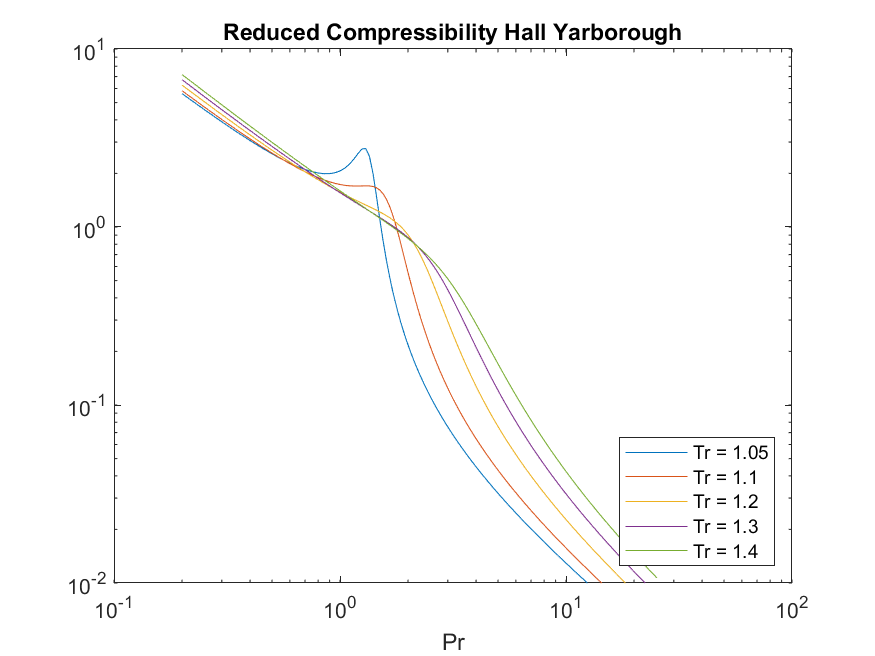
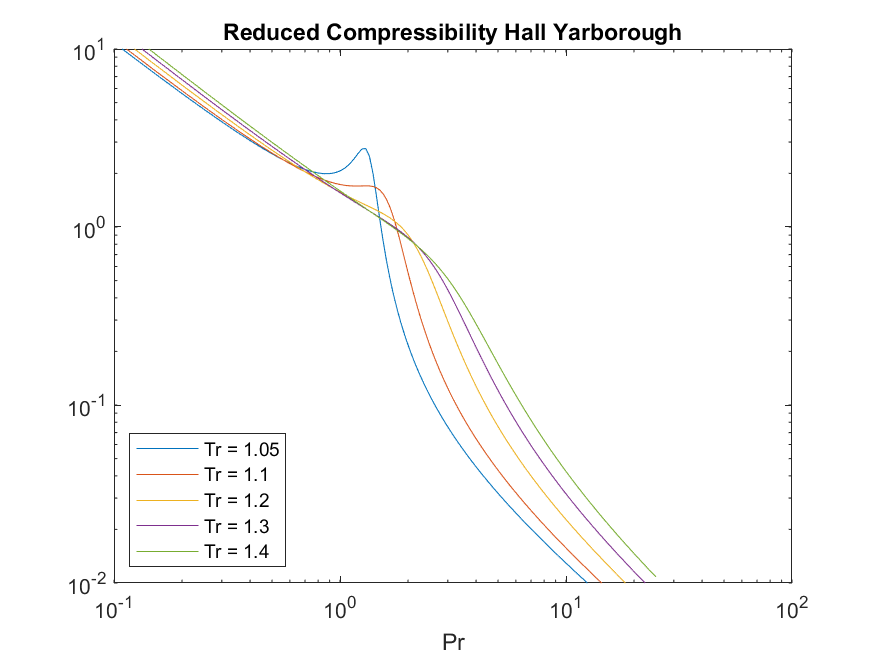
updated

diff --git a/docs/source/untitled2.m b/docs/source/untitled2.m
@@ -1,60 +1,47 @@
+% define zfunction
+function crtrhy =  CrTrHY(Pr, Tr)
 
-% define the solution in time space
-function wt = EdgeClosedBoundaryRadial_Wd(tD, rD)
+    % define density equation
+    function yres = yfunc(y, A, B, C, D, Pr)
+         y2 = y * y; y3 = y2 * y; y4 = y3 * y; Den = (1 - y)^3;
+         yres = -A * Pr + (y + y2 + y3 - y4) / Den - B * y2 + C * y^D;
+    end
 
-   % define the solution in laplace space
-   function ws = lapW(s)
-      sqrts = sqrt(s); sqrts3 = s * sqrts; rDsqrts = rD * sqrts;
-      Num = besseli(1, rDsqrts) * besselk(1, sqrts) - besselk(1, rDsqrts) * besseli(1, sqrts);
-      Den = besseli(1, rDsqrts) * besselk(0, sqrts) + besselk(1, rDsqrts) * besseli(0, sqrts);
-      if (isinf(Num) || isinf(Den))
-         ws = 1 / sqrts3;
-      else
-         ws = Num / (sqrts3 * Den);
-      end
-   end
+    % avoid computing intermediate variables.
+    t = 1 / Tr; t2 = t * t; t3 = t2 * t;
+    tm1 = 1 - t; tm1e2 = tm1 * tm1;
+    A = 0.06125 * t * exp(-1.2 * tm1e2);
+    B = 14.76 * t - 9.76 * t2 + 4.58 * t3;
+    C = 90.7 * t - 242.2 * t2 + 42.4 * t3;
+    D = 2.18 + 2.82 * t; r = A * Pr;
+    if(Pr > 15)
+        r = r/2;
+    end
 
-   if(tD == 0 || rD == 1)
-      wt =  0;
-   else
-      wt = niLaplace(@(s)lapW(s), tD);
-   end
+    % solve the density equation
+    y = fsolve(@(y) yfunc(y, A, B, C, D, Pr), r);
+
+    % compute crtr
+    y2 = y * y; y3 = y2 * y; y4 = y3 * y; ym1p4 = (1 - y)^4; yDm1 = y^(D - 1);
+    Den = (1 + 4 * y + 4 * y2 - 4 * y3 + y4) / ym1p4 - 2 * B * y + C * D * yDm1;
+   crtrhy = A*Tr/(y*Den);
+
 end
 
-% define the time and radial mesh
-Rd = [2, 2.5, 3, 3.5, 4, 50];
-Td = logspace(-1, 2);
+% set up ressure and temperature mesh
+Pr = linspace(0, 25, 501);
+Tr = [1.05,  1.1,  1.2,  1.3,  1.4];
 
-% compute the water influx and plot
-figure(Color='w');
-lgd = {};
-for rD = Rd
-   Wd = arrayfun(@(tD)EdgeClosedBoundaryRadial_Wd(tD, rD), Td);
-   semilogx(Td, Wd, linewidth = 2);  hold on;
-   lgd = [lgd, "rD = " + num2str(rD)];
+% compute z factors and plot them
+figure(Color = 'w'); Tlabels = {};
+for tr = Tr
+    loglog(Pr, arrayfun(@(pr) CrTrHY(pr, tr), Pr)); hold on;
+    Tlabels = [Tlabels, "Tr = " + tr];
 end
-lgd(end) = 'rD = ∞'; grid on;
-xlabel("tD"); ylabel("WD");
-legend(lgd, location = "northwest")
-axis([0.1, 100, 1, 8]);
-title("Dimensionless Water Influx");
-saveas(gcf, "Dimensionless-Water-Influx-Matlab-4dn.png");
 
-
-% define the time and radial mesh
-Rd = [5,6,7,8,9,10, 50];
-Td = logspace(0, 3);
-
-% compute the water influx and plot
-figure(Color='w'); lgd = {};
-for rD = Rd
-   Wd = arrayfun(@(tD)EdgeClosedBoundaryRadial_Wd(tD, rD), Td);
-   semilogx(Td, Wd, linewidth = 2); hold on;
-   lgd = [lgd, "rD = " + num2str(rD)];
-end
-lgd(end) = 'rD = ∞'; grid on;
-xlabel("tD"); ylabel("WD");
-legend(lgd, location = "northwest")
-axis([1,1000,0, 70]);
-title("Dimensionless Water Influx");
-saveas(gcf, "Dimensionless-Water-Influx-Matlab-5up.png");
+% add legend, axis label and title
+legend(Tlabels, location = "southwest");
+xlabel("Pr");
+axis([0.1, 100, 0.01, 10])
+title("Reduced Compressibility Hall Yarborough"); box on;
+saveas(gcf, 'Reduced-Compressibility-Hall-Yarborough-Matlab', 'png');

diff --git a/docs/source/Advanced_Engineering_Applications.rst b/docs/source/Advanced_Engineering_Applications.rst
@@ -448,26 +448,30 @@ Using Hall and Yarborough Correlation, we can evaluate the reduced compressibili
          {
              double t, tm1, tm1e2, t2, t3, A, B, C, D,
                  r, y2, y3, y4, yDm1, ym1p3, ym1p4, Den;
+
+             // compute itnermediate variables
              t = 1 / Tr; t2 = t * t; t3 = t2 * t;
              tm1 = 1 - t; tm1e2 = tm1 * tm1;
              A = 0.06125 * t * Exp(-1.2 * tm1e2);
              B = 14.76 * t - 9.76 * t2 + 4.58 * t3;
              C = 90.7 * t - 242.2 * t2 + 42.4 * t3;
              D = 2.18 + 2.82 * t; r = A * Pr;
+
+             // define density function
              var yfunc = new Func<double, double>(y =>
              {
-                 y2 = y * y; y3 = y2 * y; y4 = y3 * y;
-                 ym1p3 = Pow(1 - y, 3);
-                 return -A * Pr + (y + y2 + y3 - y4) /
-                 ym1p3 - B * y2 + C * Pow(y, D);
+                 y2 = y * y; y3 = y2 * y; y4 = y3 * y; ym1p3 = Pow(1 - y, 3);
+                 return -A * Pr + (y + y2 + y3 - y4) / ym1p3 - B * y2 + C * Pow(y, D);
              });
+
+             // solve density function
              var opts = SolverSet(StepFactor: 0.5);
              if (Pr > 15) r *= 0.5;
              double y = Fsolve(yfunc, r, opts);
-             y2 = y * y; y3 = y2 * y; y4 = y3 * y;
-             ym1p4 = Pow(1 - y, 4); yDm1 = Pow(y, D - 1);
-             Den = (1 + 4 * y + 4 * y2 - 4 * y3 + y4) /
-                 ym1p4 - 2 * B * y + C * D * yDm1;
+
+             // compute crtr
+             y2 = y * y; y3 = y2 * y; y4 = y3 * y; ym1p4 = Pow(1 - y, 4); yDm1 = Pow(y, D - 1);
+             Den = (1 + 4 * y + 4 * y2 - 4 * y3 + y4) / ym1p4 - 2 * B * y + C * D * yDm1;
              return A * Tr / (y * Den);
          } 
         
@@ -518,7 +522,7 @@ Using Hall and Yarborough Correlation, we can evaluate the reduced compressibili
                   yres = -A * Pr + (y + y2 + y3 - y4) / Den - B * y2 + C * y^D;
              end
 
-             % avoid computing intermediate variables.
+             % compute intermediate variables.
              t = 1 / Tr; t2 = t * t; t3 = t2 * t;
              tm1 = 1 - t; tm1e2 = tm1 * tm1;
              A = 0.06125 * t * exp(-1.2 * tm1e2);
@@ -531,6 +535,8 @@ Using Hall and Yarborough Correlation, we can evaluate the reduced compressibili
 
              % solve the density equation
              y = fsolve(@(y) yfunc(y, A, B, C, D, Pr), r);
+
+             % compute crtr
              y2 = y * y; y3 = y2 * y; y4 = y3 * y; ym1p4 = (1 - y)^4; yDm1 = y^(D - 1);
              Den = (1 + 4 * y + 4 * y2 - 4 * y3 + y4) / ym1p4 - 2 * B * y + C * D * yDm1;
             crtrhy = A*Tr/(y*Den);
